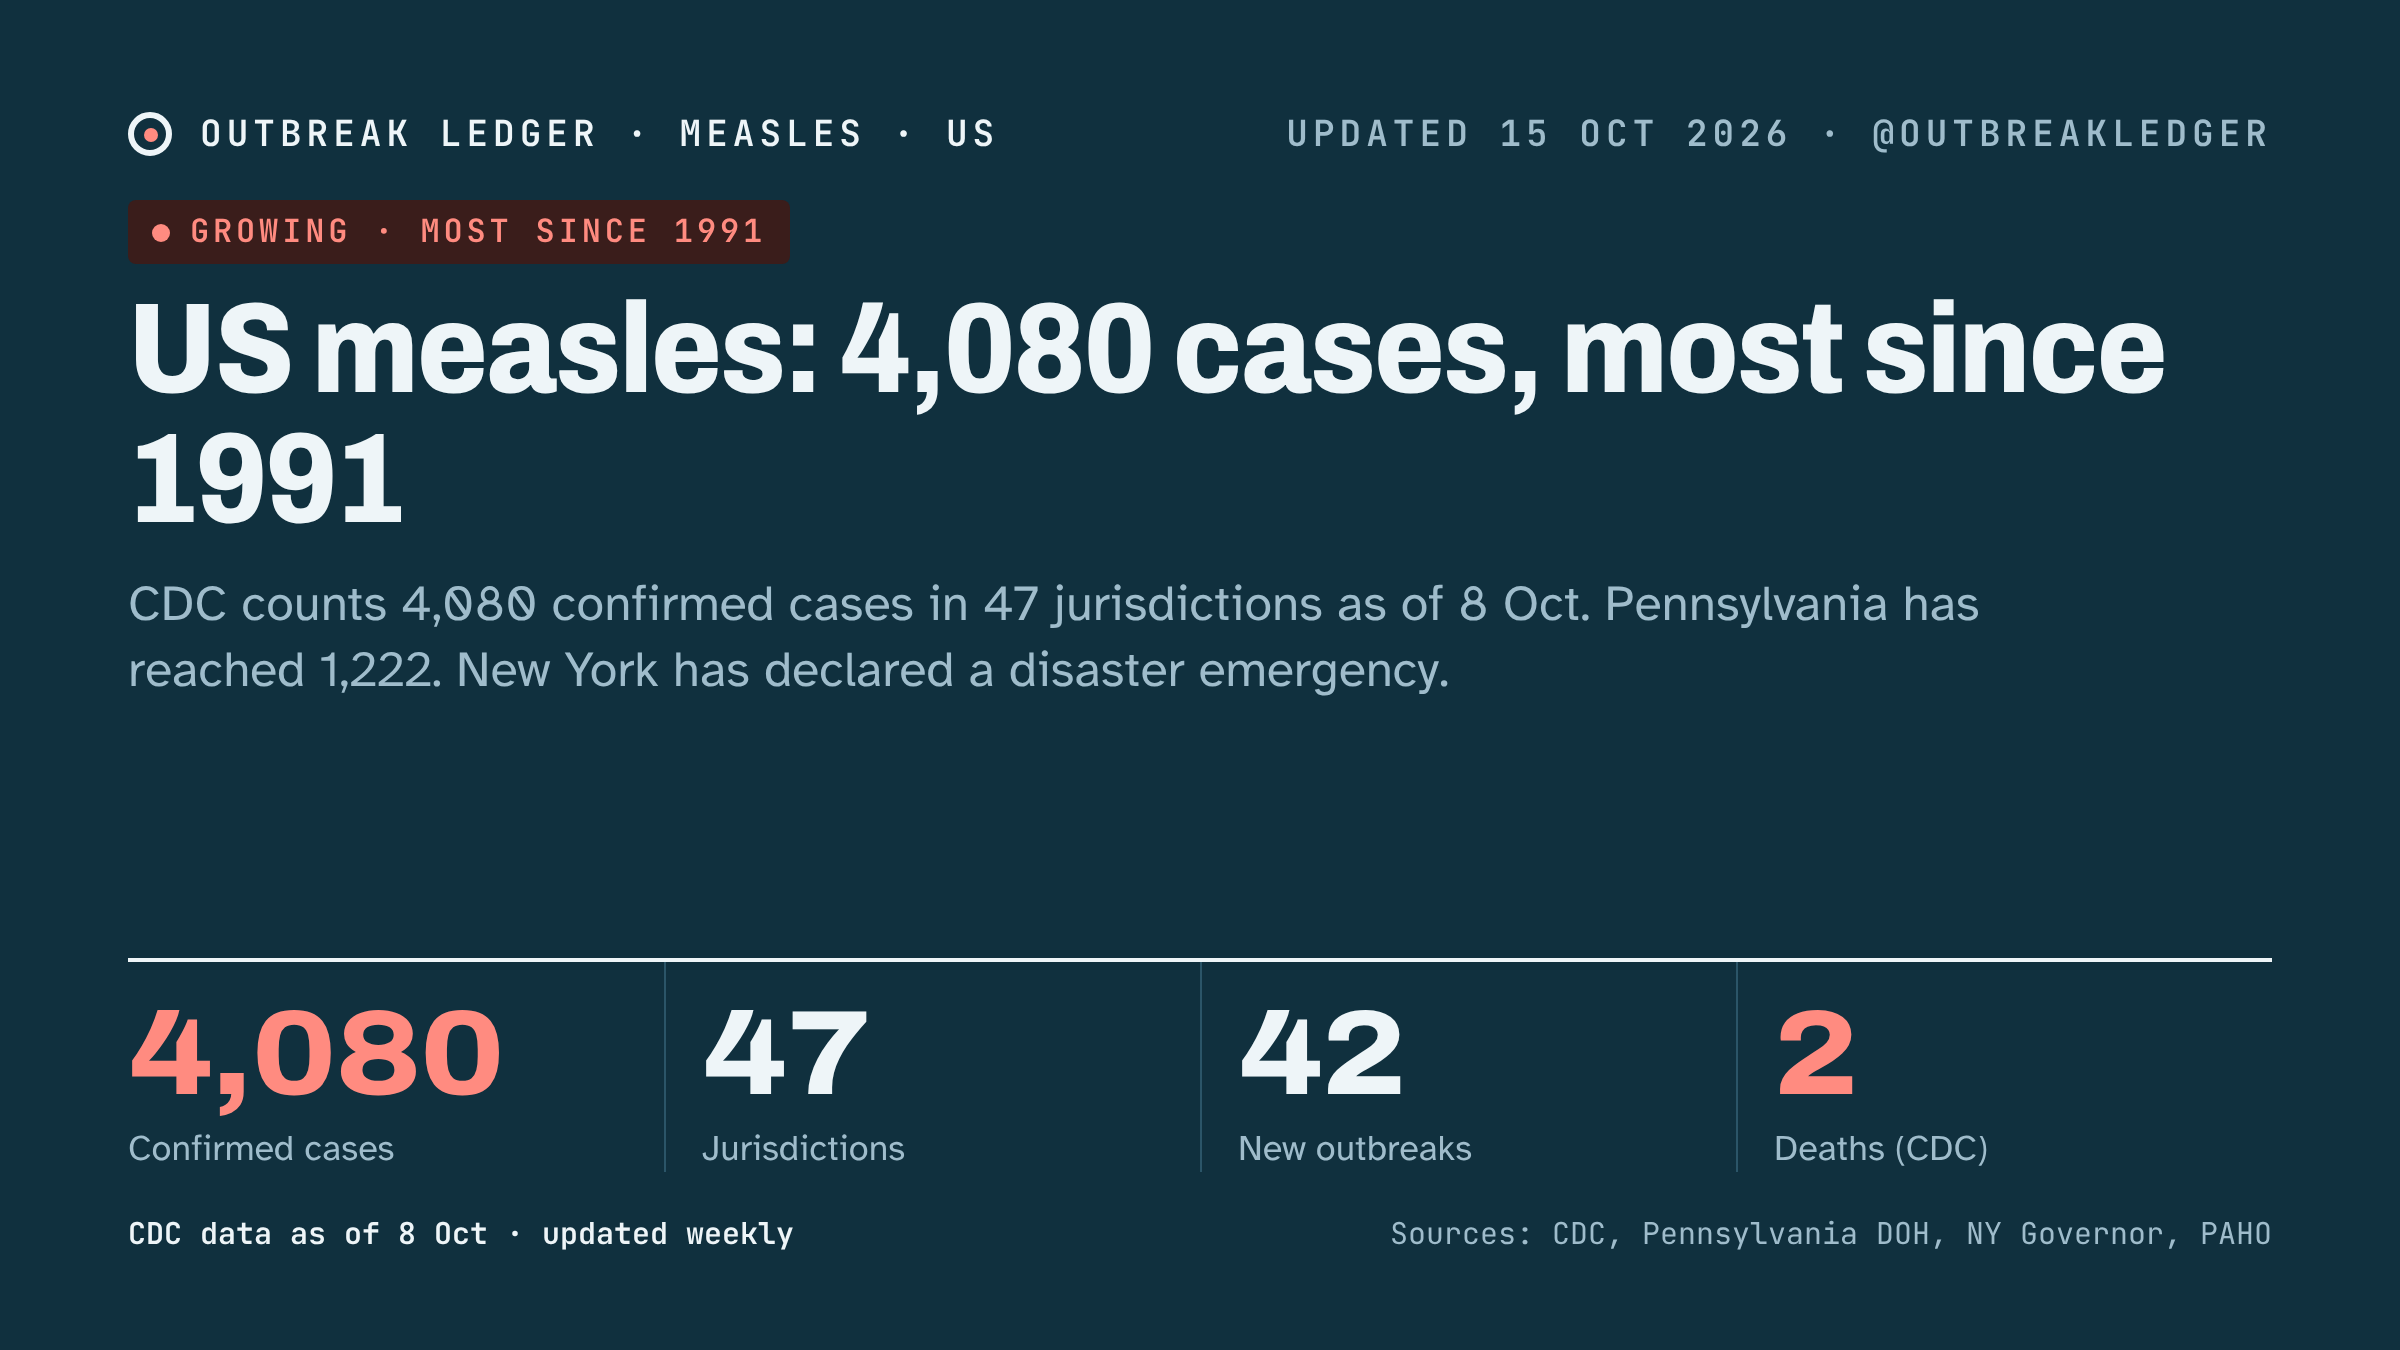
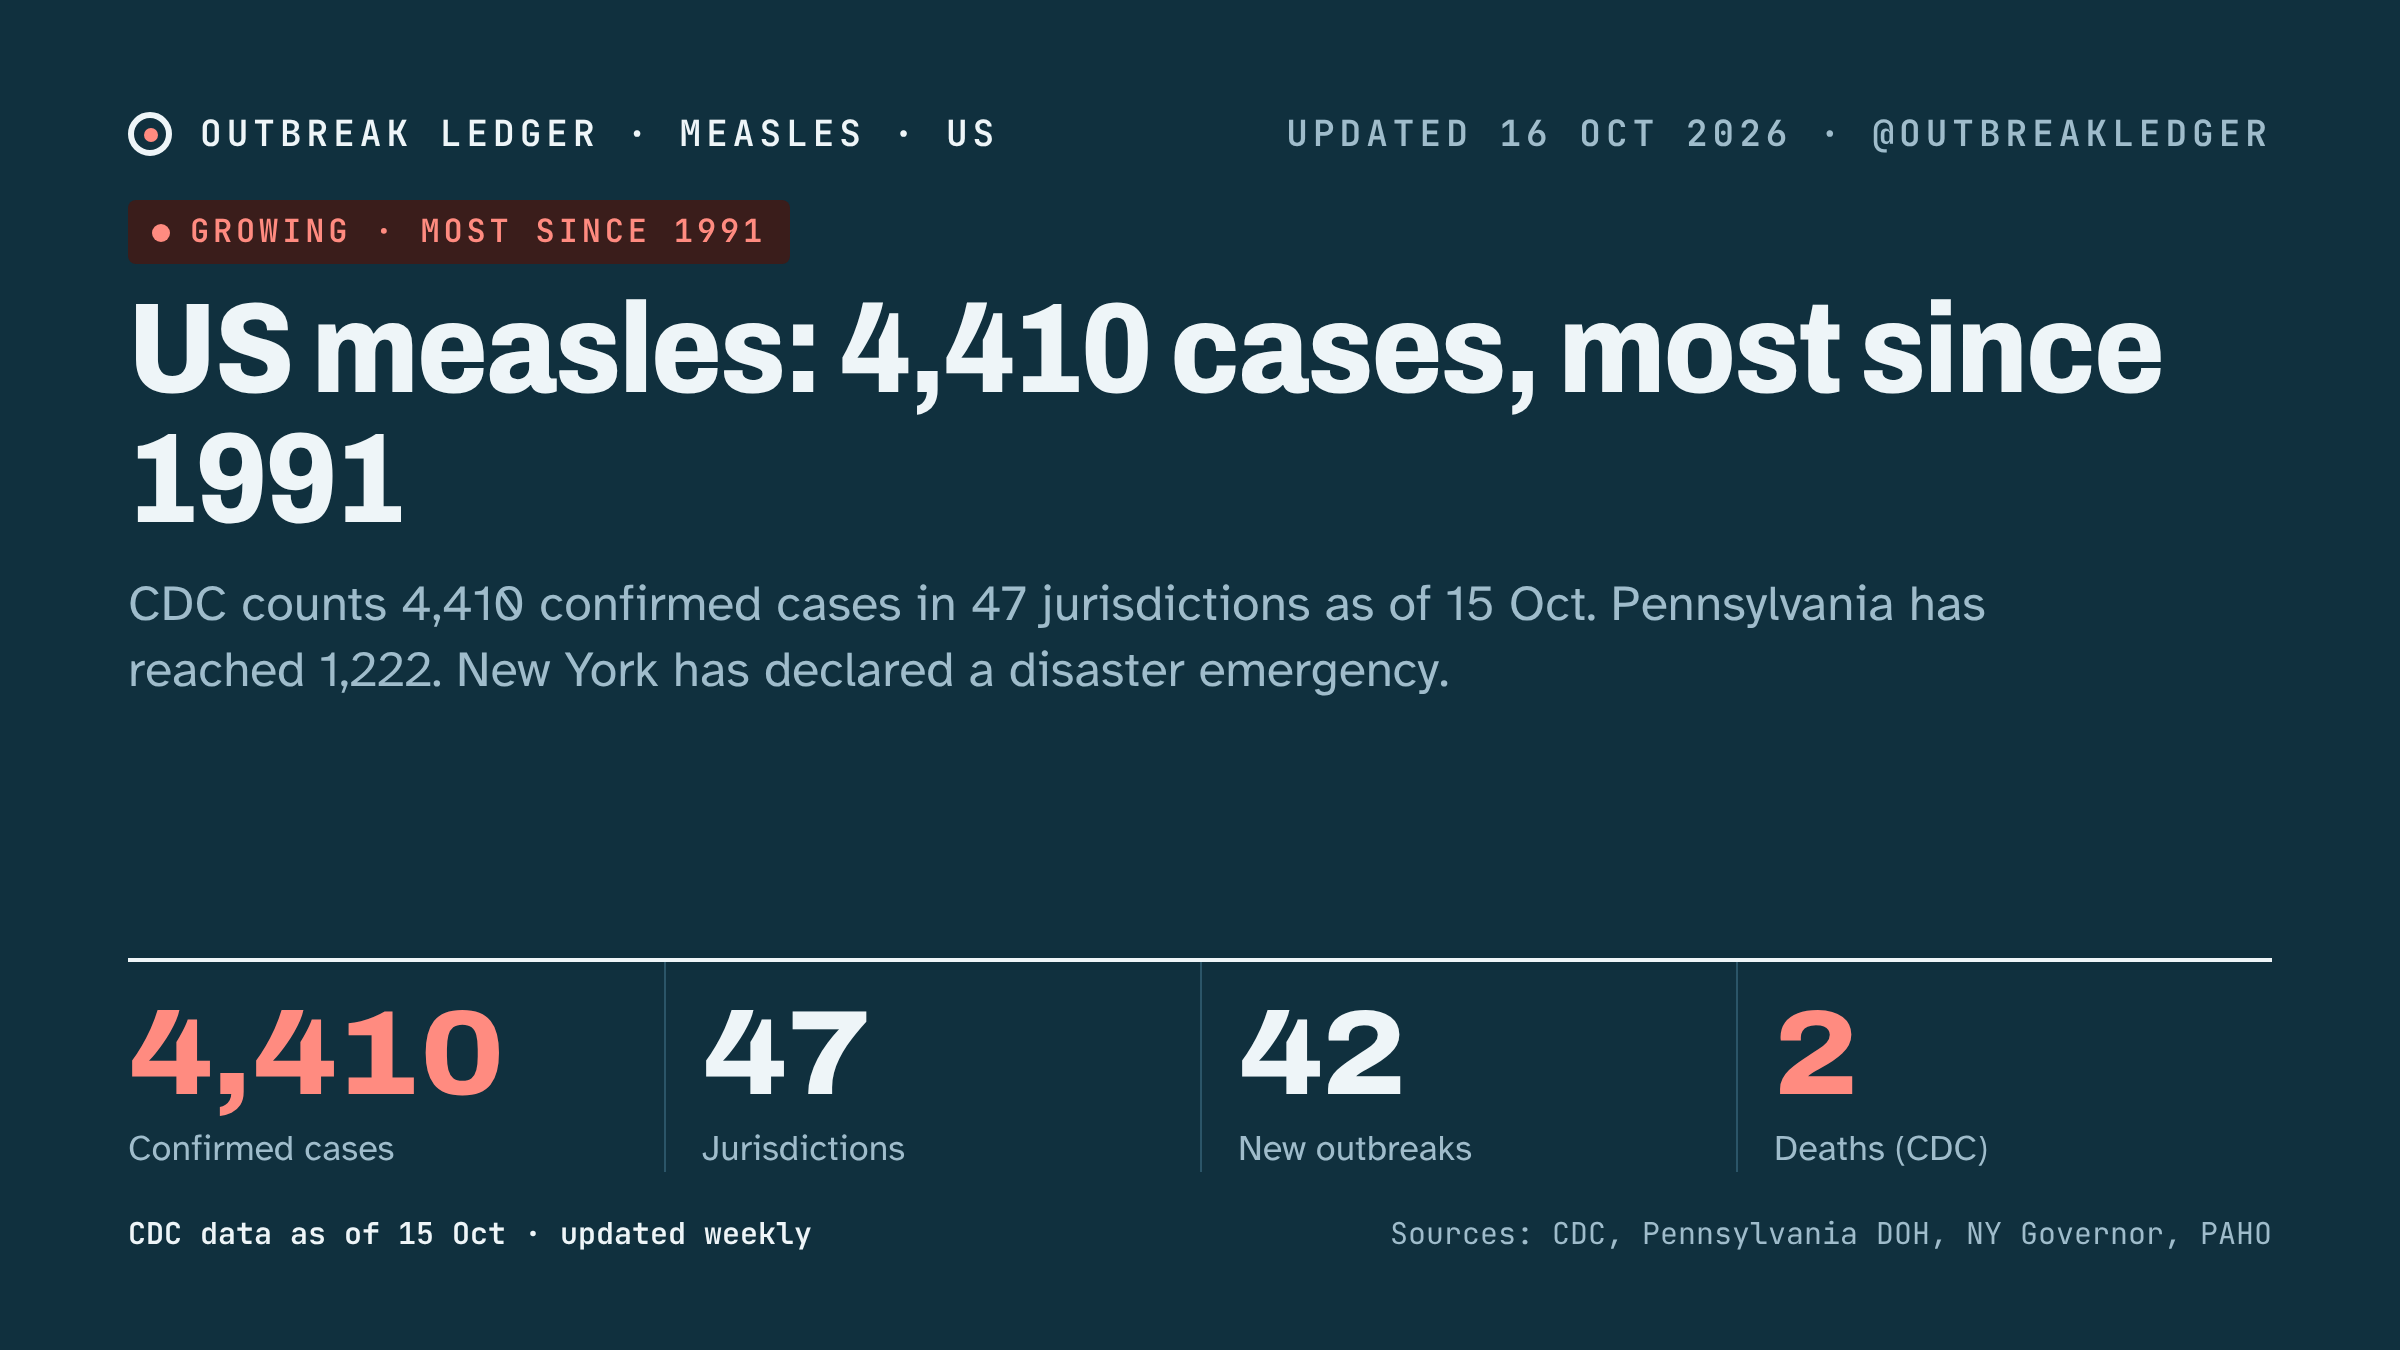
Trackers: US measles 4,410 cases (CDC, 15 Oct); others checked, no change
Claude-Session: https://claude.ai/code/session_01DjK934MGj4uKY77RiACNyU

diff --git a/site/measles/share/latest-post.md b/site/measles/share/latest-post.md
@@ -1,6 +1,6 @@
-US measles: CDC counts 4,080 confirmed cases as of 8 Oct, the most since 1991. Pennsylvania reports 1,222 cases in 42 counties, and CDC said on 13 Oct it will send additional support to the state's investigation.
+US measles: CDC counts 4,410 confirmed cases as of 15 Oct, the most since 1991, in 47 jurisdictions. Pennsylvania reports 1,222 cases; CDC is sending support to the state's investigation.
 
 Live tracker:
 https://nhlebe1.github.io/ai-scheduler-platform/measles/
 
-Sources: CDC (9 Oct), Pennsylvania Department of Health (14 Oct), AP via The News Tribune (14 Oct).
+Sources: CDC (16 Oct), Reuters via Detroit News (16 Oct), ABC News (16 Oct), Pennsylvania Department of Health (14 Oct).
